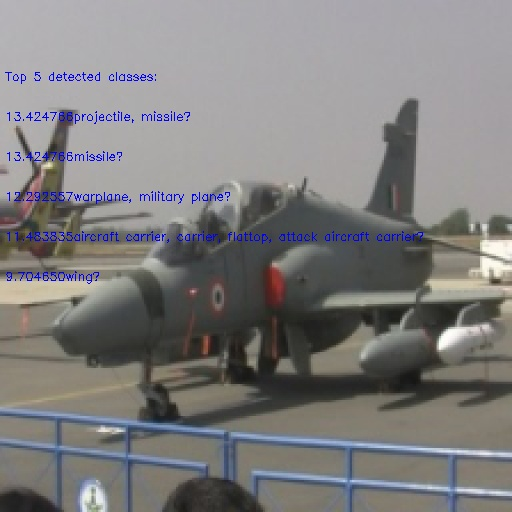
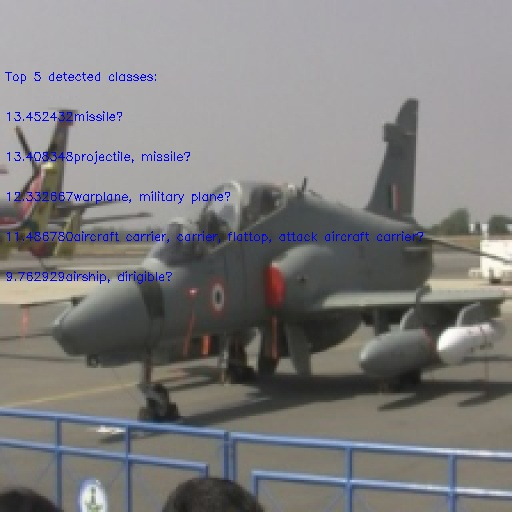
[PY_EX]Minor fix in tfl python example.
Also updated reference for DLR model. Mostly change is in TVM/DLR version upgrade

diff --git a/examples/osrt_python/tfl/tflrt_delegate.py b/examples/osrt_python/tfl/tflrt_delegate.py
@@ -188,7 +188,7 @@ def run_model(model, mIdx):
                 print("\n", classes)
         elif config['model_type'] == 'od':
             for j in range(batch):
-                classes, image = det_box_overlay(output[0][j], imgs[j], config['od_type'])
+                classes, image = det_box_overlay(output, imgs[j], config['od_type'])
                 images.append(image)
         elif config['model_type'] == 'seg':
             for j in range(batch):
